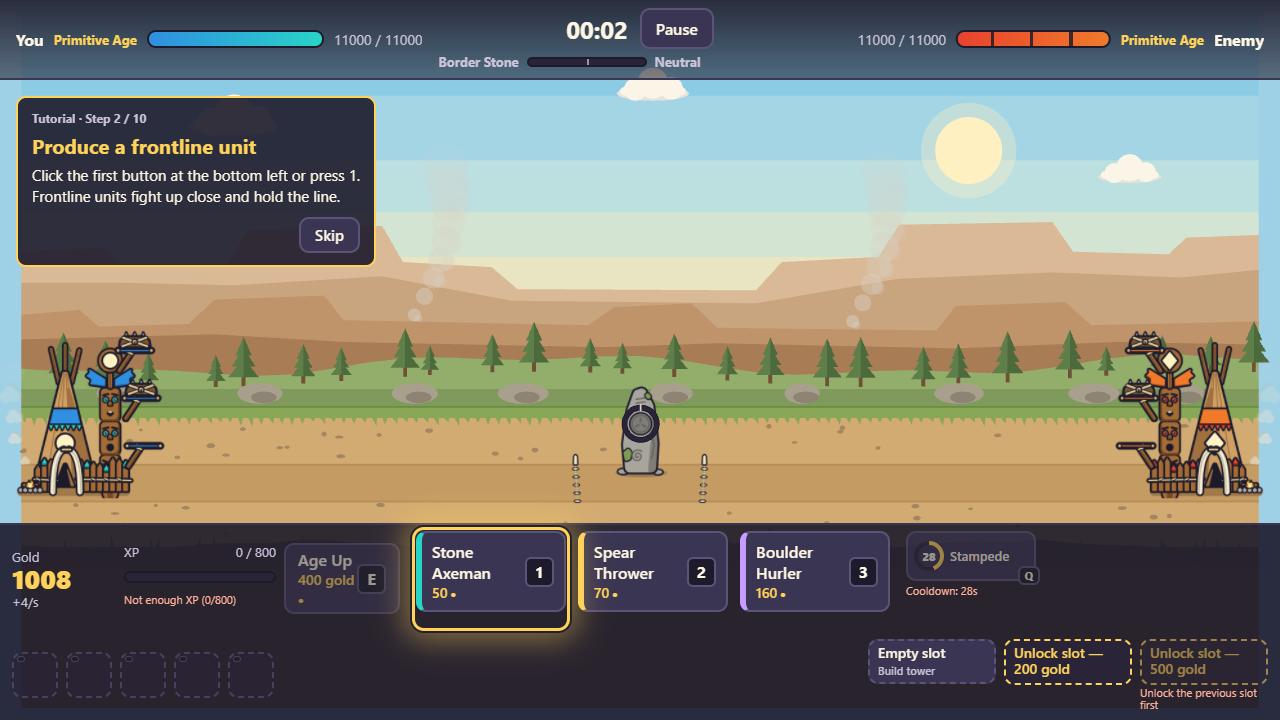
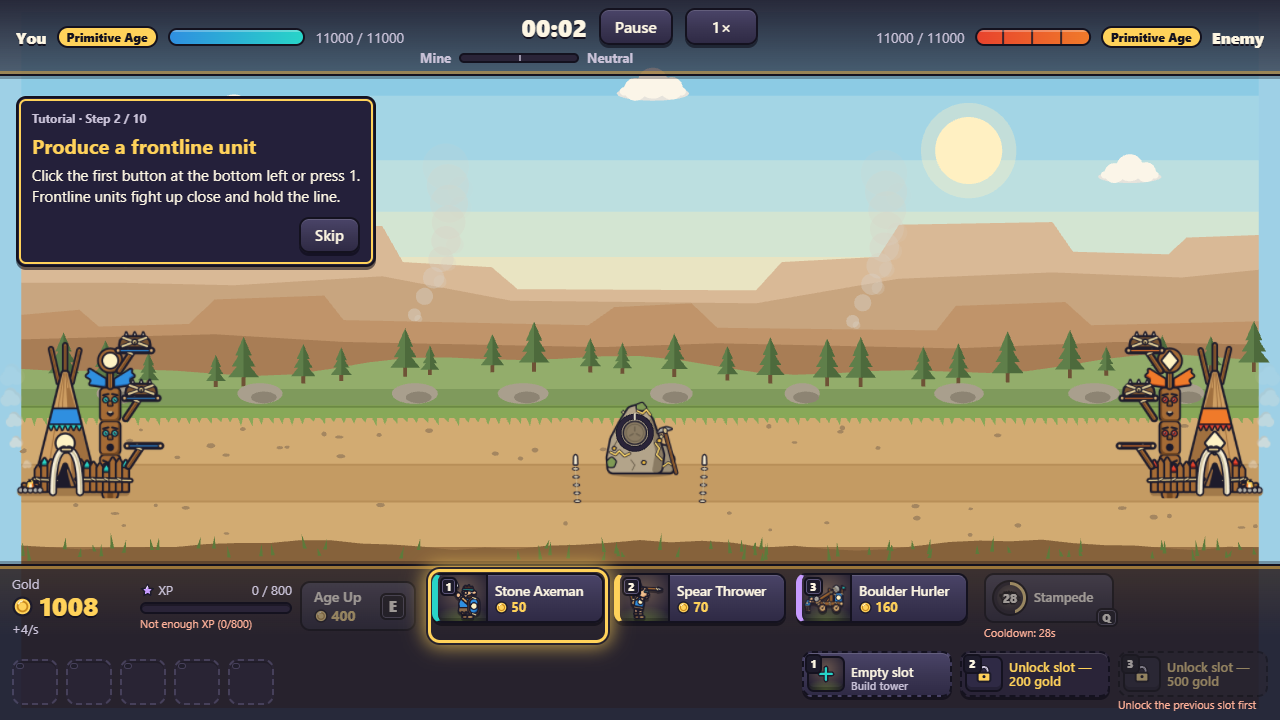
Mağaza: 1.2.0 görselleri (maden, yağma, portreler) ve sayfa metni
İngilizce ve Türkçe beşer ekran görüntüsü, yeni kapaklar; itch.io güncelleme
adımları, açıklama (maden, aşınma, hız), devlog notu.

diff --git a/store/itch-sayfasi.md b/store/itch-sayfasi.md
@@ -1,33 +1,35 @@
 # itch.io sayfası — Devir
 
-Yayında: https://menesdeniz.itch.io/devir. 2026-11-06'da 1.0.1 olarak yayınlandı, aynı gün bu dosyadaki adımlarla
-1.1.0'a güncellendi (İngilizce sayfa). Görseller bu klasörde: `en-*` İngilizce (1.1.0), önek olmayanlar Türkçe (1.0.1 arayüzü).
-Paket: GitHub sürüm sayfasındaki `devir-1.1.0-html5.zip` (yerelde `release/devir-1.1.0-html5.zip`).
+Yayında: https://menesdeniz.itch.io/devir.
+- 2026-11-06: 1.0.1 olarak yayınlandı, aynı gün 1.1.0'a güncellendi (İngilizce sayfa).
+- 1.2.0: bu dosyadaki adımlarla güncellenir.
 
-## Mevcut sayfayı 1.1.0'a güncelleme (adım adım)
+Görseller bu klasörde (1.2.0 arayüzü): `en-*` İngilizce, önek olmayanlar Türkçe.
+Paket: GitHub sürüm sayfasındaki `devir-1.2.0-html5.zip` (yerelde `release/devir-1.2.0-html5.zip`).
+
+## Mevcut sayfayı 1.2.0'a güncelleme (adım adım)
 
 1. https://menesdeniz.itch.io/devir → üstteki **Edit game**.
 2. **Uploads:**
-   - Eski `devir-1.0.1-html5.zip` dosyasının yanındaki çöp kutusuyla onu sil.
-   - **Upload files** ile `devir-1.1.0-html5.zip` dosyasını yükle.
+   - Eski `devir-1.1.0-html5.zip` dosyasını çöp kutusuyla sil.
+   - **Upload files** ile `devir-1.2.0-html5.zip` dosyasını yükle.
    - Yeni dosyada **This file will be played in the browser** kutusunu işaretle.
-   - Embed options aynı kalır: 1280 × 720 ve Fullscreen button.
-3. **Short description or tagline:** aşağıdaki İngilizce satırla değiştir.
-4. **Description:** aşağıdaki "Description" bloğunun tamamını yapıştır. İngilizce önde, Türkçe altta.
+   - **Embed options** bölümünde 1280 × 720 ve **Fullscreen button** açık mı, kontrol et. Yeni yüklemede ayarlar sıfırlanabilir.
+3. **Short description or tagline:** aşağıdaki satırla değiştir (70 karakter; sınır 120).
+4. **Description:** aşağıdaki bloğun tamamını yapıştır.
 5. **Cover image:** `en-kapak-630x500.png` yükle.
 6. **Screenshots:** eski görselleri kaldır, `en-ekran-1` … `en-ekran-5` dosyalarını sırayla yükle.
-7. **Tags:** mevcutlar kalsın; istersen `english` ekle (en fazla 10).
-8. **Save.** Sonra sayfada **Run game** ile kısa bir deneme yap:
-   - Ana menünün altında "Version 1.1.0" ya da "Sürüm 1.1.0" yazmalı.
-   - Ayarlar → Dil çalışmalı.
-9. İstersen sayfadaki **Devlog → Create new post** ile aşağıdaki güncelleme notunu paylaş. Takipçilere bildirim gider.
+7. **AI generation disclosure:** Yes; Graphics, Sounds, Text & Dialog, Code (değişmedi).
+8. **Save.** Sonra sayfada **Run game** ile kısa bir deneme yap. Kontrol edilecekler:
+   - ana menünün altında "Version 1.2.0" ya da "Sürüm 1.2.0" yazıyor
+   - maç kurulumunda **Erosion / Aşınma** seçeneği görünüyor
+   - üst şeritte hız düğmesi var
+9. İstersen **Devlog → Create new post** ile aşağıdaki güncelleme notunu paylaş; takipçilere bildirim gider.
 
 ## Short description or tagline
 
-itch.io sınırı 120 karakter; bu satır 81 karakter.
-
 ```text
-One lane, five ages: build an army, hold the Border Stone and out-age your rival.
+One lane, five ages: build an army, hold the mine and raid your rival.
 ```
 
 ## Description
@@ -37,16 +39,18 @@ Devir is a single-player age-progression strategy game for the browser. Two base
 
 HOW TO PLAY
 • Train frontline, ranged and heavy units; they march down the lane on their own.
-• Kill enemy units to earn gold and XP. When the XP bar fills, age up: every age unlocks stronger units, towers and a new special ability.
+• Kill enemy units and hit the enemy base to earn XP. When the XP bar fills, age up: every age unlocks stronger units, towers and a new special ability.
 • Build towers in the slots in front of your base; towers defend without losses.
-• Hold the Border Stone in the middle of the lane: while only your units stand next to it, it becomes yours and pays extra gold and XP every second.
-• Destroy the enemy base to win. A match takes about 10–12 minutes.
+• Hold the gold mine in the middle of the lane: while only your units stand next to it, it is yours. Every second it digs up gold: half goes to you right away, half piles up in the mine's store. Take the mine from its owner to raid the whole store. The mine grows with every age.
+• Destroy the enemy base to win. A match takes about 12–15 minutes.
 
 FEATURES
 • 5 ages, 15 units, 10 towers, 5 special abilities (Stampede, Fire Trench, Caltrops, Barrage, Stasis Field)
 • Easy / Normal / Hard computer opponent that only uses what it can see and gets no extra resources
+• Erosion (on by default): after 13:00 both bases slowly erode, so a match can't stall; turn it off for a long game
+• Game speed 1× / 1.5× / 2× / 3× (button next to Pause, or F)
 • 10-step skippable tutorial, autosave and continue, detailed results screen
-• Original code-drawn art, synthesized sound effects and music for every age
+• Original code-drawn art with unit and tower portraits, synthesized sound effects and music for every age
 • English and Turkish (Settings → Language)
 
 CONTROLS
@@ -54,6 +58,7 @@ CONTROLS
 • Backspace: cancel the last waiting order
 • Q: special ability. Aim, then press Q again or click to cast (← → to move, Enter to cast)
 • E: age up
+• F: change game speed
 • P / Esc: pause / resume
 Fully playable with the mouse too.
 
@@ -61,32 +66,34 @@ REQUIREMENTS
 A current desktop browser with WebGL2 (Chrome, Edge, Firefox, Safari 17+), window at least 1280×720.
 
 — Türkçe —
-Devir, tarayıcıda oynanan tek oyunculu bir çağ ilerleme stratejisi. İki üs, tek koridor, beş çağ. Birlik üret, rakibi öldürüp altın ve deneyim kazan, çağ atla, kule kur ve koridorun ortasındaki Sınır Taşı'nı tut: taş sendeyken her saniye ek altın ve deneyim kazanırsın. Rakip üssü yıkan kazanır. Arayüz Türkçe ve İngilizce (Ayarlar → Dil).
+Devir, tarayıcıda oynanan tek oyunculu bir çağ ilerleme stratejisi. İki üs, tek koridor, beş çağ. Birlik üret, rakibi öldürüp ve üssüne vurup deneyim kazan, çağ atla, kule kur. Koridorun ortasındaki madeni tut: her saniye altın çıkarır, yarısı hemen sana gelir, yarısı depoda birikir; madeni rakipten alırsan deposunu yağmalarsın. Maden her çağda büyür. Aşınma (isteğe bağlı) maçın kilitlenmesini önler; oyun hızı 3×'e kadar. Arayüz Türkçe ve İngilizce (Ayarlar → Dil).
 ```
 
 ## Devlog güncelleme notu (isteğe bağlı)
 
 ```text
-Update 1.1.0 — English, a clearer Border Stone and softer sound
+Update 1.2.0: the Gold Mine, game speed and unit portraits
 
-Thanks to the first playtest feedback:
-• English language support (Settings → Language). The game picks your browser language on first launch.
-• The Border Stone's reward is now visible: the income line shows the stone's share, the stone indicator shows the owner's bonus, and "+N gold" rises from the stone every second.
-• Softer, more natural sound effects: the harsh high hiss and clicky starts are gone, and frequent sounds vary and stack less in big fights.
-Your 1.0 saves still load.
+Thanks to playtest feedback:
+• The Border Stone is now a Gold Mine that grows with every age. It pays only gold: half goes to the holder right away, half piles up in its store, and whoever takes the mine from its owner raids the whole store. Holding the middle no longer decides the match on its own.
+• XP now comes from kills and from damaging the enemy base, which rewards pressure.
+• Erosion: after 13:00 both bases slowly erode so matches can't stall. You can switch it off in match setup for a long game.
+• Game speed: 1× / 1.5× / 2× / 3× (button next to Pause, or F).
+• Unit and tower portraits on the buttons, a polished interface, and a shorter bottom panel.
+Your saves from 1.0 and 1.1 still load.
 ```
 
-## Proje ayarları (ilk oluşturma için başvuru)
+## Proje ayarları (başvuru)
 
 | Alan | Değer |
 |---|---|
 | Kind of project | HTML |
 | Pricing | No payments |
-| Uploads | `devir-1.1.0-html5.zip` → This file will be played in the browser |
+| Uploads | `devir-1.2.0-html5.zip` → This file will be played in the browser |
 | Viewport | 1280 × 720; Fullscreen button açık; Mobile friendly, Automatically start, Enable scrollbars, SharedArrayBuffer kapalı |
 | Genre | Strategy |
-| Tags | 2d, singleplayer, real-time-strategy, tower-defense, medieval, science-fiction, cartoon (isteğe bağlı english, turkish) |
-| AI generation disclosure | Yes; türler: Graphics, Sounds, Text & Dialog, Code (dördü de). İsteğe bağlı açıklama aşağıda |
+| Tags | 2d, singleplayer, real-time-strategy, tower-defense, medieval, science-fiction, cartoon |
+| AI generation disclosure | Yes: Graphics, Sounds, Text & Dialog, Code |
 | Community | Comments |
 
 ## Statement of AI usage (isteğe bağlı, sayfada herkese görünür)
